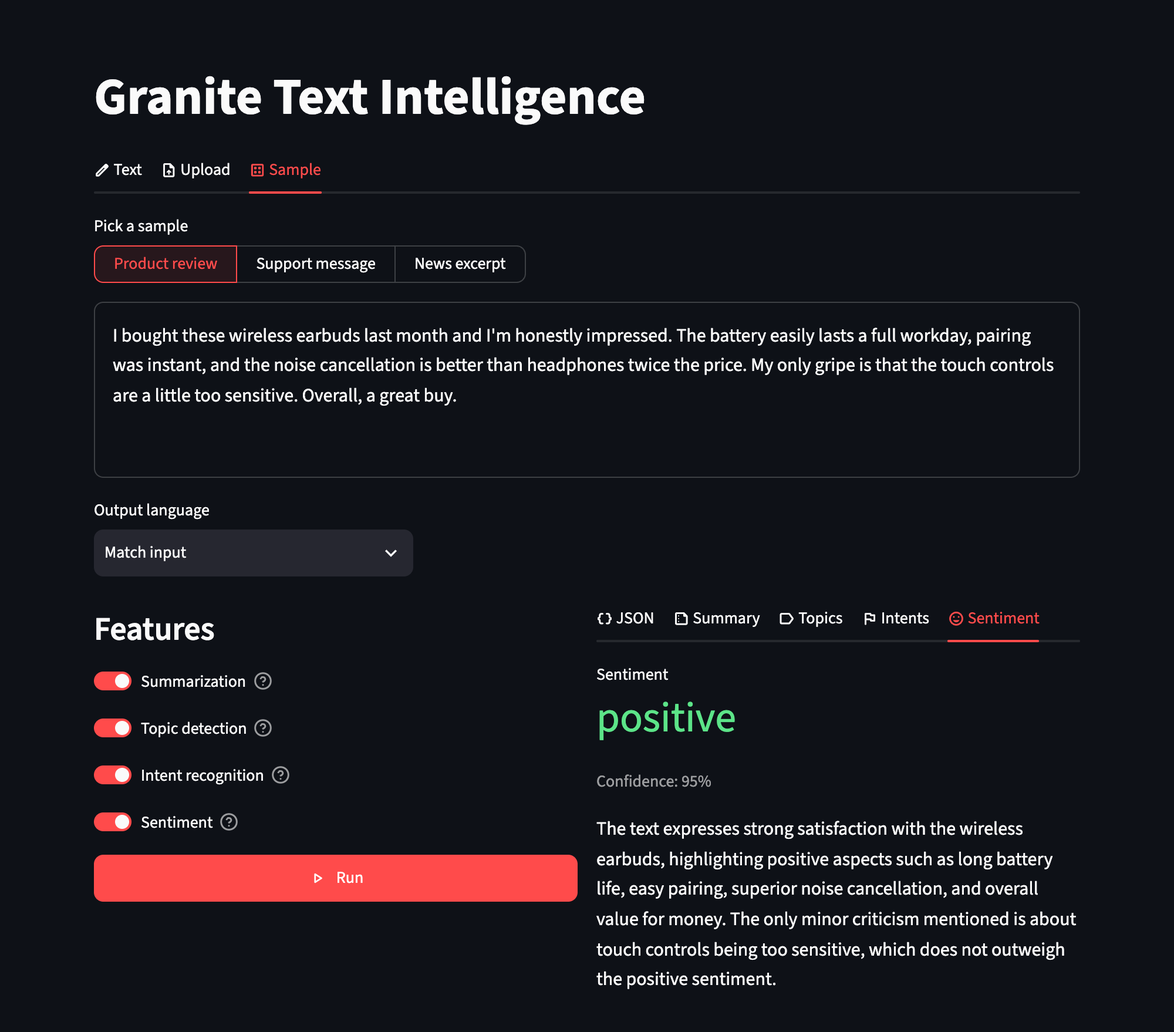
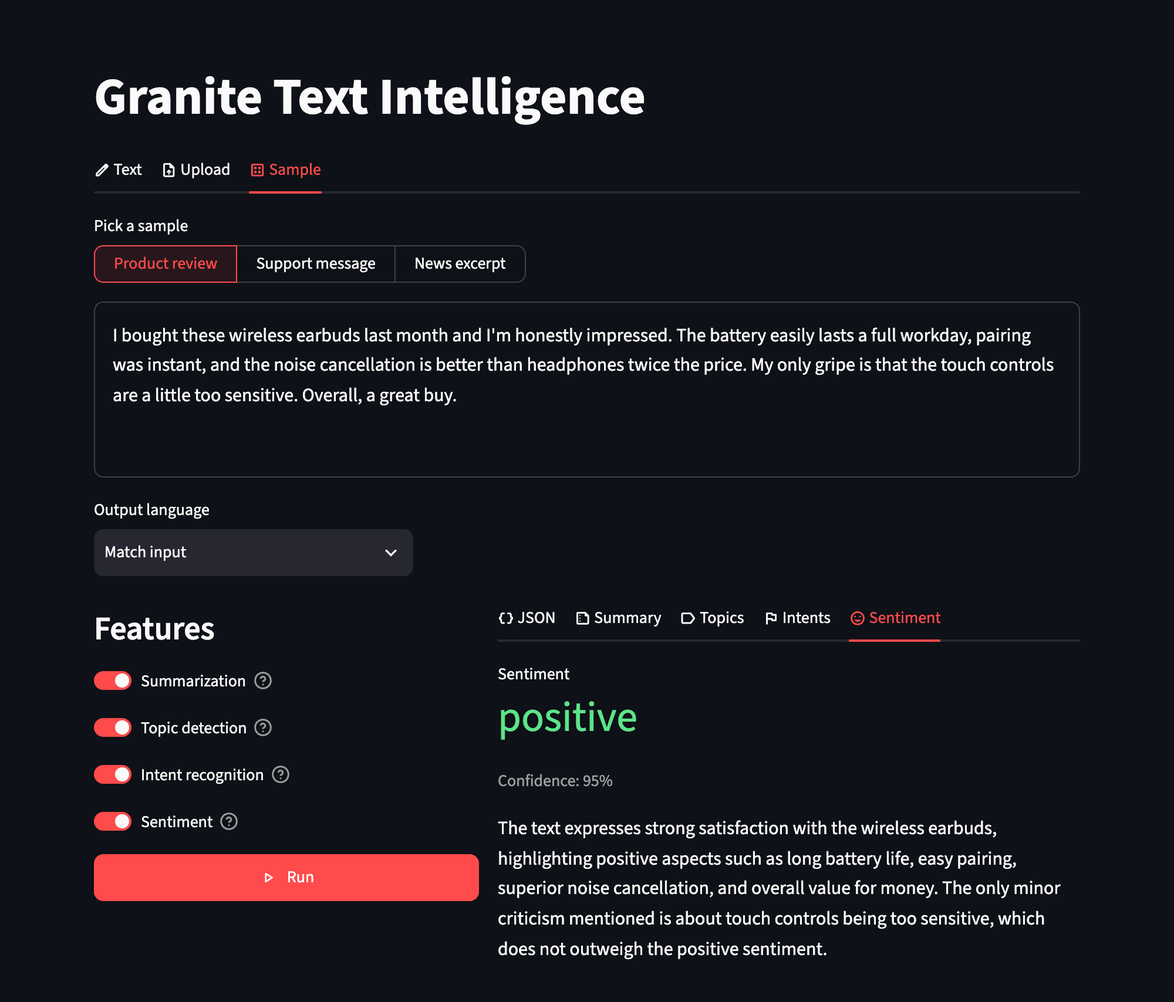
docs: correct the width figures and record the review follow-ups
The width floor was documented twice with two different numbers — ~930 in the
capture recipe and ~831 in the Architecture section it cross-references. The
831 came from modelling the results column as a fixed fraction of the
viewport; fitting it properly gives 0.5 * viewport - 88, which is why a 900 px
capture clipped and a 1000 px one did not. The 2:3 split now removes the
threshold entirely, so the capture width is an aesthetic choice rather than a
floor, and the screenshot is recaptured under the new ratio.

Also corrected: the claim that the container reordering retired the stale
"Inputs changed" note (it did not — that needed `st.empty()`), and the claim
that a disabled `st.text_area` sits in the tab order (it does not).

The Dependencies checklist gains `st.container(height=)`, `st.text(width=)`
and `st.code(wrap_lines=)`. The documented procedure for lowering the
Streamlit floor says to check "the APIs above", so an API used by the app and
missing from that list is one nobody checks. All three verified present at
1.57, so the floor itself was never wrong.

diff --git a/CLAUDE.md b/CLAUDE.md
@@ -79,7 +79,7 @@ Conventional Commits — `feat:`, `fix:`, `docs:`, `chore:`, `test:`, `refactor:
 - `mlx-lm` (pinned `>=0.31,<0.32`) — model loading and generation on Apple Silicon; mlx and transformers are transitive deps. The `<0.32` cap guards against API drift, since decoding params pass through `generate(**kwargs)` rather than typed parameters; exact reproducibility is handled by `uv.lock`.
   - **The cap binds `mlx-lm`, not `mlx`.** mlx-lm declares `mlx` with a floor but *no upper* bound (`mlx>=0.31.2`), so the compute library floats free of the guard above — and since 0.31.3 is mlx-lm's latest release, the cap is not currently binding on anything. As of 2026-08-13 the lock pairs mlx-lm 0.31.3 with mlx 0.32.0, a combination newer than anything upstream shipped together (the mlx-lm sdist predates mlx 0.32.0). That pairing is **verified by real-inference smoke test**, not by CI (re-verified 2026-08-14).
   - The test suite structurally **cannot** cover this. Every test mocks at the `mlx_lm` boundary (see Tests), which is the right call — real inference in CI would mean a 5.2 GB download per run — but it means no test executes a line of `mlx`; the only real contact in CI is the module-level `from mlx import nn`. Hence the hand-run in *Verifying a dependency upgrade*, which is not optional after a move to any of these four packages.
-- `streamlit` (pinned `>=1.57`) — web UI. **The floor is now less load-bearing than it reads.** It was argued from the IBM Carbon theme's per-mode `[theme.light]`/`[theme.dark]` blocks, which no longer ship (see Configuration); what is left needing a recent Streamlit is `width="stretch"` and the Material Symbol icons, both of which predate `1.57`. Nothing tests the lower bound — CI installs the `uv.lock` pin — so the floor is kept rather than lowered on the argument that an unverified bound is safer than a guessed one, not because `1.57` is known to be required. Anyone lowering it should check the APIs above against the target version by hand. Exact version pinned by `uv.lock`.
+- `streamlit` (pinned `>=1.57`) — web UI. **The floor is now less load-bearing than it reads.** It was argued from the IBM Carbon theme's per-mode `[theme.light]`/`[theme.dark]` blocks, which no longer ship (see Configuration); what is left needing a recent Streamlit is `width="stretch"`, the Material Symbol icons, `st.container(height=…)`, `st.text(…, width=…)` and `st.code(…, language=None, wrap_lines=True)` — all of which predate `1.57` (verified). Keep this list in step with the app: the procedure below says to check "the APIs above", so an API added to `streamlit_app.py` and not added here is one nobody checks. Nothing tests the lower bound — CI installs the `uv.lock` pin — so the floor is kept rather than lowered on the argument that an unverified bound is safer than a guessed one, not because `1.57` is known to be required. Anyone lowering it should check the APIs above against the target version by hand. Exact version pinned by `uv.lock`.
 - `python-dotenv` (pinned `>=1.2.2`) — loads `HF_TOKEN` (and other env vars) from `.env` for local development
 
 ## Configuration
@@ -94,7 +94,7 @@ To reproduce it — or to add a light counterpart back — drive a headless Chro
 
 Four details are load-bearing, and each one cost a failed run:
 
-- **The width is a floor, not a preference.** Below ~930 CSS px the result-tab strip clips (see Architecture); at the old 792 it clips even under `layout="wide"`.
+- **The width is now an aesthetic choice, not a floor.** It was a floor while the columns were an even split — the result-tab strip clipped below ~930 CSS px, which the old 792 recipe did not clear even under `layout="wide"`. The 2:3 split removed that threshold (see Architecture), so 1000 is kept for the framing it gives rather than because anything breaks below it.
 - **The height cannot come from `document.scrollHeight`.** Streamlit scrolls an inner container, so the document stays exactly viewport-tall and reports back whatever height you asked for — a full-page capture silently returns just the visible window, and a too-tall viewport returns acres of dead space. Measure the lowest `getBoundingClientRect().bottom` among `[data-testid="stMainBlockContainer"]`'s children, then re-apply the override at that height.
 - **Do not poll `document.body.innerText` to detect that the run finished.** `innerText` omits subtrees that are not rendered, and every result tab except the active one is hidden — so waiting for the sentiment caption while `JSON` is the active tab waits forever, on a run that has already completed. Poll for elements instead (`[data-testid="stMetricValue"]`), which `querySelectorAll` finds regardless of visibility.
 - **Match click targets on the *end* of `innerText`.** The Material Symbol ligature renders as a text prefix, so the Run button reads `"play_arrow Run"`, not `"Run"`.
@@ -165,7 +165,9 @@ The custom theme that shipped until 2026-08-14 (IBM Plex Sans/Mono over IBM Blue
 
 `streamlit_app.py` — single-file app. Single-shot flow: one input → run the selected features → show results. Streamlit's built-in light/dark theme (no `.streamlit/config.toml`; see Configuration), native components, Material Symbol icons, no sidebar, `layout="wide"`.
 
-**`layout="wide"` is load-bearing, not cosmetic.** The results panel is half the page and carries five icon-prefixed tabs whose labels need **377 CSS px** together (measured in the browser). The results column is ~45% of the viewport, so the strip fits only from a viewport of roughly **831 CSS px** up; below that `st.tabs` silently degrades into a horizontally scrolling strip with a chevron, hiding whichever label is furthest from the active one — visible in the screenshot that shipped until 2026-08-15, where the `JSON` tab was scrolled out of frame. Centered layout could not reach that width. Removing an icon would also fix it and is the wrong fix: `TestUIPolish` pins `":material/data_object: JSON"` and the `icon` + `tab_label` composition for every feature.
+**`layout="wide"` and the 2:3 column split are load-bearing, not cosmetic.** The results panel carries five icon-prefixed tabs whose labels need **378 CSS px** together (measured in the browser). When the panel was half the page, the space available for that strip was a function of window width — the results column measured `0.5 × viewport − 88` CSS px, so the strip clipped below a viewport of roughly **930 px**, and `st.tabs` degraded *silently* into a horizontally scrolling strip with a chevron that hides whichever label is furthest from the active one. That is visible in the screenshot that shipped until 2026-08-15, where the `JSON` tab was scrolled out of frame.
+
+`layout="wide"` alone only moved that threshold — a browser window at half a 1440 px display is 720 px and still clipped. Giving the results **3/5** (`st.columns([2, 3])`) removes it structurally: measured across 600–1200 px viewports the strip never clips, because even at 700 px the column is 393 px against the 378 px needed (below ~640 px Streamlit stacks the columns, which hands the strip the full width). The features column holds four toggles and one button and does not need half the page. Removing an icon would also have fixed it and is the wrong fix: `TestUIPolish` pins `":material/data_object: JSON"` and the `icon` + `tab_label` composition for every feature.
 
 ### Model
 
@@ -203,11 +205,11 @@ The four features: Summarization (prose, 256 tokens), Topic detection and Intent
 
 ### Layout
 
-A full-width input section sits on top; below it the page splits into two columns (`st.columns(2)`).
+A full-width input section sits on top; below it the page splits into two columns (`st.columns([2, 3])` — the ratio is load-bearing, see above).
 
-- **Input** — `st.tabs(["Text", "Upload", "Sample"])` (each label prefixed with a Material Symbol icon); the active input is resolved by precedence **Text > Upload > Sample** (first non-empty). The uploader accepts `.txt` and `.md` only (`type=["txt", "md"]`) and decodes with `errors="replace"`, so undecodable bytes become U+FFFD rather than raising. The Upload and Sample tabs each preview their text in a fixed-height `st.container(height=150)` holding `st.text(…, width="stretch")` — **not** a `disabled=True` `st.text_area`, which is what shipped until 2026-08-15: Streamlit renders a disabled textarea at `fadedText40` (forced through `-webkit-text-fill-color`, so it cannot be overridden) and keeps it in the tab order, which reads as a broken input rather than a read-only preview. `st.text` is proportional, not monospace, and its width cannot exceed its parent, so long prose wraps inside the scrolling container. Directly beneath the input (full-width, above the column split) is the **Output language** selectbox (`LANGUAGES`, default "Match input"), width-constrained to ~1/3 via `st.columns([1, 2])` — it's a global setting, so it sits with the input rather than in the per-feature column.
+- **Input** — `st.tabs(["Text", "Upload", "Sample"])` (each label prefixed with a Material Symbol icon); the active input is resolved by precedence **Text > Upload > Sample** (first non-empty). The uploader accepts `.txt` and `.md` only (`type=["txt", "md"]`) and decodes with `errors="replace"`, so undecodable bytes become U+FFFD rather than raising. The Upload and Sample tabs each preview their text through the shared `_preview` helper — **not** a `disabled=True` `st.text_area`, which is what shipped until 2026-08-15: Streamlit renders a disabled textarea at `fadedText40` (forced through `-webkit-text-fill-color`, so it cannot be overridden), which reads as a broken input rather than a read-only preview. It is **not** a tab-order problem — a `disabled` control, unlike `readOnly`, is removed from sequential focus navigation, and an earlier version of this note claimed the opposite. The real trade-off is the accessible name: the textarea carried a collapsed label and a bare container has none, and Streamlit exposes no label on a container. Directly beneath the input (full-width, above the column split) is the **Output language** selectbox (`LANGUAGES`, default "Match input"), width-constrained to ~1/3 via `st.columns([1, 2])` — it's a global setting, so it sits with the input rather than in the per-feature column.
 - **Left column** — a "Features" subheader over the four `st.toggle` widgets (default on; each description in its `help=` tooltip), with the full-width **Run** button beneath (a `:material/play_arrow:` icon; `width="stretch"`; disabled until there is input and at least one feature is on).
-- **Right column** — two reserved `st.container()` slots (run status, then the notices) followed by the fixed result tabs, **all emitted before the Run handler executes** (the ordering is load-bearing — see Performance): `JSON` plus one tab per feature, derived from `FEATURES` (each feature label composed as `icon` + `tab_label`; the `JSON` tab carries an icon too). JSON shows the combined output; each feature tab renders its result (guarded by try/except), a "not enabled for this run" note if it was off, or a run prompt before the first run. An "Inputs changed since this run — click Run to refresh." note appears when the live input/toggles/language differ from the run. Rendered from `st.session_state.results`.
+- **Right column** — a reserved `st.container()` (run status) and a reserved `st.empty()` (the notices; the *empty* is load-bearing, see Performance) followed by the fixed result tabs, **all emitted before the Run handler executes**: `JSON` plus one tab per feature, derived from `FEATURES` (each feature label composed as `icon` + `tab_label`; the `JSON` tab carries an icon too). JSON shows the combined output; each feature tab renders its result (guarded by try/except), a "not enabled for this run" note if it was off, or a run prompt before the first run. An "Inputs changed since this run — click Run to refresh." note appears when the live input/toggles/language differ from the run. Rendered from `st.session_state.results`.
 
 Interactive widgets carry stable `key=`s so `AppTest` can address them by key rather than positional index: `paste` (text area), `upload` (file uploader), `sample_select` (sample segmented control), `feature_<key>` (per-feature toggles, e.g. `feature_summary`), `language` (output-language selectbox), and `run` (the Run button).
 
@@ -221,19 +223,30 @@ Interactive widgets carry stable `key=`s so `AppTest` can address them by key ra
 - `_effective_max_tokens(feature, language) -> int` — the feature's `max_tokens`, doubled for every non-English language (see `_LOCALIZED_TOKEN_MULTIPLIER`); the base budget for English.
 - `run_feature(feature, text, model, tokenizer, language=LANGUAGE_AUTO) -> dict` — builds `[{"role": "system", …}, {"role": "user", …}]` (system prompt verbatim; the user turn carries the `language_directive`), renders it with `tokenizer.apply_chat_template(messages, tokenize=False, add_generation_prompt=True)`, and passes that string to `mlx_lm.generate` with `_effective_max_tokens(feature, language)`, `make_sampler(temp=TEMP)`, and — **for prose only** — a `make_logits_processors` repetition penalty (`logits_processors=None` for JSON). No "thinking" mode. Returns `{"raw": str, "parsed": dict | None}` (`parsed` only for JSON features).
 - `_run_signature(input_text, enabled, language) -> tuple` — the run's identity `(input_text, toggle states, language)`; built on Run and recomputed live so the results panel can flag stale results. Single source so build/compare sides can't diverge.
-- `_topic_rows(topics) -> list[dict]` — normalizes the model's `topics` value into rows `st.dataframe` can render. The previous non-empty-list check was not enough, and both survivors were reproduced against the installed Streamlit: a list of **bare label strings** (`["politics", "economy"]`) converts to a single column literally headed `value` — `column_config` names nothing in it, so the labels lose their header and the confidence bar vanishes — while a list *mixing* objects with scalars raises `StreamlitAPIException`, which `render_result`'s caller degrades to "Could not render this result." plus a traceback. Bare strings are promoted to `{"label": …}`; any other non-mapping entry is dropped, which is not data loss for the user because the JSON tab always shows the raw response. A promoted row has no `confidence`, which renders as an empty bar rather than raising.
+- `_preview(text) -> None` — renders read-only source text in a fixed-height `st.container(height=150)` holding `st.text(…, width="stretch")`; `st.text` is proportional, not monospace, and cannot exceed its parent's width, so long prose wraps inside the scrolling container. Shared by the Upload and Sample tabs so the rationale (above) lives in one place rather than as a comment pointing at another comment.
+- `_topic_rows(topics) -> list[dict]` — normalizes the model's `topics` value into rows `st.dataframe` can render. A non-empty-list check was not enough; all three survivors were reproduced against the installed Streamlit. A list of **bare label strings** (`["politics", "economy"]`) converts to a single column literally headed `value` — `column_config` names nothing in it, so the labels lose their header and the confidence bar vanishes. A list *mixing* objects with scalars raises `StreamlitAPIException`, which `render_result`'s caller degrades to "Could not render this result." plus a traceback. And a list of objects carrying **no usable `label`** (`[{}]`, or `[{"confidence": 0.9}]` from a truncated object) renders a table of blank rows instead of falling through to "No topics found." Bare strings are promoted to `{"label": …}`, and an entry survives only if it has something to show in the Topic column — **both shapes are held to the same test**, which is what lets the caller's `if rows:` mean "there is a topic to render". Dropping is not data loss for the user because the JSON tab always shows the raw response. A promoted row has no `confidence`, which renders as an empty bar rather than raising.
 - `render_result(key, result) -> None` — renders one feature's result with native components: prose for summary; a dataframe for topics (confidence as a `ProgressColumn`); `st.metric` for intent/sentiment, each with an optional rationale and a percent-formatted confidence (`_render_confidence`). The sentiment value is color-coded by enum (`_SENTIMENT_COLOR` → `:color[…]` markdown, which resolves Streamlit's **built-in color names** against the active theme — positive→green, negative→red, neutral→gray, mixed→orange; an unrecognized name is not an error, it renders as literal punctuation, which is what `TestThemeConfig` pins), matched **case-insensitively** (`.lower()`, so `"Positive"` still colors); an out-of-enum label renders uncolored. Untrusted model output is guarded — `topics` is normalized by `_topic_rows` (an empty result falls back to a message), `st.metric` values are coerced to strings, and JSON parse failures show the raw response via `st.code(raw, language=None, wrap_lines=True)`: the default `language="python"` would syntax-highlight model prose as code, and claiming `"json"` would be a guess on the one branch that runs *because* the output did not parse.
 
 ### Performance
 
 The load-bearing choices are stated where they are defined — lazy `@st.cache_resource` model load (Model), the `MAX_INPUT_TOKENS` truncation budget and greedy decoding (Constants). Two decisions have no other home:
 
-- **The results panel's chrome is emitted before the run, not after.** The two `st.container()` slots and `st.tabs` are created first; the `if run:` block then fills the status slot and the notices fill theirs. Streamlit emits a delta per `st.*` call and leaves the *previous* run's elements on screen — faded to ~33% once a run outruns a short delay — until the new run re-emits them. Building the tabs after inference therefore left the entire panel stale for the length of a 5.2 GB model load plus up to four generations, including the then-actively-misleading "Inputs changed since this run" note. **The spinners do not repaint it**: `st.spinner` enqueues on a *transient* cursor (`get_transient_cursor` advances `_transient_index`, never `_index`), so it never touches the real delta path. `st.container()` is the correct reservation and **`slot.skeleton()` is not**, despite being what Streamlit's own performance guidance reaches for: `SkeletonPlaceholder.__init__` calls `_enqueue`, which locks and advances the cursor, so the skeleton permanently consumes child index 0 — the tabs would then sit at index 1 on Run reruns and index 0 on every other one, remounting the tab block and resetting the selected tab. No test pins element order (`AppTest` assertions are `any(...)` over each collection, a set comparison for `at.tabs`, and `at.metric[0]` is unambiguous), so this is unguarded by construction.
+- **The results panel's chrome is emitted before the run, not after** — a status `st.container()`, a notices `st.empty()`, then `st.tabs`; the `if run:` block fills them afterwards. Streamlit emits a delta per `st.*` call and leaves the *previous* run's elements on screen — faded to ~33% once a run outruns a short delay — until the new run re-emits them, and it only drops what was not re-emitted in `clearStaleNodes` at **end of run**. Two things follow, and only the second is what most descriptions of this pattern claim:
+  - **The tab block now sits at a fixed child index.** It used to follow the two *conditional* notices, so its delta path shifted between 0, 1 and 2 as they appeared and disappeared; landing on a path previously held by a different node remounts the block and silently resets the user's selected tab. This is the bug the ordering actually fixes, and it is unrelated to how long inference takes.
+  - **The tab bar paints immediately** instead of waiting out a 5.2 GB model load plus up to four generations. The tab *bodies* cannot — the results do not exist yet — so the previous run's answers are still what is on screen during a run. That is inherent, not a defect.
+  - **The notices slot must be `st.empty()`, not a container.** Re-emitting an empty *container* preserves its existing children (they are only dropped at end of run), so a plain container would keep showing the previous run's "Inputs changed since this run" note, faded but readable, throughout a run it no longer describes. `st.empty()` clears at the top of the rerun; `notice_slot.container()` is what lets the one slot hold both notices. An earlier version of this section claimed the container reordering alone retired that note — it does not.
+  - **The spinners repaint none of it**: `st.spinner` enqueues on a *transient* cursor (`get_transient_cursor` advances `_transient_index`, never `_index`), so it never touches the real delta path.
+  - **`slot.skeleton()` is the wrong reservation**, despite being what Streamlit's own performance guidance reaches for: `SkeletonPlaceholder.__init__` calls `_enqueue`, which locks and advances the cursor, so the skeleton permanently consumes child index 0 — reintroducing exactly the shifting-index remount above.
+  - Cost: an empty `st.container()` renders no DOM node at all and the `st.empty()` renders at height 0, so the reservation costs **one 16 px flex gap** above the tab strip (measured), not the stacked dead space it looks like it should.
+
+  `TestResultsPanelStructure` pins the order by asserting the results column's children are `[flex_container, empty, tab_container]` in `AppTest`'s block tree — the rest of the UI suite asserts with `any(...)` over each collection and a set comparison for `at.tabs`, so nothing else here can see order.
 - No `@st.fragment`: the one expensive op (inference) is already gated behind Run and `@st.cache_resource`-cached, so isolating reruns would add complexity for no gain — and a results-panel fragment would not even see the input/toggle/language widgets it depends on (they live outside it), breaking the cross-widget staleness note. `st.session_state.results` is initialized with `st.session_state.setdefault`.
 
 ### Error Handling
 
 Unexpected exceptions during a run — and during per-feature rendering — are shown with `st.exception()`. JSON parse failures degrade gracefully to the raw response, and `render_result` guards/coerces untrusted model output before passing it to `st.metric` / `st.dataframe`.
+
+**A failed run clears `st.session_state.results`.** The run guard sets it to `None` before showing the traceback, because the tabs are already painted by then (see Performance): leaving the previous run's answers in place would show them *underneath* the traceback with nothing marking them stale, and the "Inputs changed since this run" note does not cover it — that note reads as "you edited something", not "this run failed". The cost is losing a good previous result to a transient failure, which is the cheaper of the two, since re-running is one click and a wrong-but-confident panel is not recoverable by the reader.
 
 Both of those `except Exception` handlers carry an inline `# noqa: BLE001` naming their role (top-level run guard / untrusted model output shape). `BLE001` ("do not catch blind exception") entered ruff's **default** rule set in 0.16, and it is right about blind catches in general — but these two are deliberate UI boundaries: a Streamlit script has no frame above it to catch anything, so an escaped exception blanks the page instead of showing the user what broke. The suppression is per-line rather than a project-wide `ignore` in `pyproject.toml` **on purpose** — the rule stays live, so a third, *unintentional* blind catch added later still fails the lint gate.
 
@@ -251,7 +264,7 @@ The suites that assert by *executing* a shell script (`TestReleaseWorkflow`, `Te
 - `TestLanguageDirective` — `English` → empty, prose targets the language, JSON localizes values but keeps keys/enums English, and `Match input` uses the relative phrase. Further cases pin the A/B findings the design decision says not to re-litigate: each JSON feature names its **own** field (topics→`label`, intents/sentiment→`rationale`) and that name stays **unquoted**; the localize clause comes **last** (asserted with `find()`, not `rindex()`, so a dropped clause fails the assertion instead of raising `ValueError`); the prose branch suppresses language commentary and makes no claim about English at all; and the JSON branch mentions English only positively — six negative phrasings are rejected, since under "Match input" the target may itself be English. The clause-order and positive-English checks are parametrized over every JSON feature × `Match input`/Japanese/German
 - `TestResolveMaxInputTokens` — env-var override, default when unset, non-integer/non-positive fallback, clamp to `MODEL_MAX_TOKENS`, and the pinned default/ceiling values
 - `TestEffectiveMaxTokens` — base budget for English; doubled for **every** other entry in `LANGUAGES` (Latin-script included, and "Match input" as `LANGUAGES[0]`). Parametrized over language × feature, so all four budgets are checked against all 12 targets
-- `TestRenderResult` — `st.metric` string coercion for intent/sentiment, the non-list topics guard, `_topic_rows` normalization (bare strings promoted to `{"label": …}`, non-mappings dropped, and a **mixed** list still reaching `st.dataframe` rather than collapsing to "No topics found." — the fix must not discard labels the model did return), percent-formatted confidence, and per-enum sentiment coloring (`positive→green` … `mixed→orange`, out-of-enum → uncolored) (mocks `streamlit_app.st`)
+- `TestRenderResult` — `st.metric` string coercion for intent/sentiment, the non-list topics guard, `_topic_rows` normalization (bare strings promoted to `{"label": …}`; non-mappings and **label-less objects** — `[{}]`, `[{"confidence": 0.9}]`, `[{"label": "  "}]` — dropped so the caller's `if rows:` cannot render a table of blank rows; and a **mixed** list still reaching `st.dataframe` rather than collapsing to "No topics found." — the fix must not discard labels the model did return), percent-formatted confidence, and per-enum sentiment coloring (`positive→green` … `mixed→orange`, out-of-enum → uncolored) (mocks `streamlit_app.st`)
 - `TestThemeConfig` — that no `[theme]` section ships (a lone one drops the light/dark toggle silently; see Configuration), asserted against the *section* so a config.toml carrying only non-theme options still passes, and that every hue `_SENTIMENT_COLOR` emits is a name Streamlit resolves — cross-checked against `streamlit.elements.lib.color_util.BUILTIN_COLOR_NAMES` rather than a hardcoded list, so an upstream rename fails loudly on import instead of silently narrowing what the test accepts. An unrecognized name isn't an error: `:teal[positive]` ships to the user as literal punctuation
 - `TestCIWorkflow` — `.github/workflows/ci.yml` parses, pins `runs-on` to a member of the `APPLE_SILICON_RUNNERS` allow-list (see Configuration for why an allow-list and not a glob), delegates to `scripts/gate.sh` under `uv sync --locked` (the four gates are asserted once, in `TestHooksConfig`, rather than re-spelled here where they could drift), and triggers on push to `main` and on PRs — the CI analogue of `TestThemeConfig`'s silent-degradation guard (a dropped step or swapped runner would still show green on whatever CI still ran). Parses with `pyyaml` (a dev dep); accounts for YAML 1.1 reading the bare `on:` key as boolean `True`
 - `TestReleaseWorkflow` — `.github/workflows/ci.yml`'s `release` job and `scripts/release.sh`, the silent-degradation guard with the least forgiving failure mode: automation that stops firing is indistinguishable from a stretch with no version bumps, and automation that fires from the wrong place has already published a tag by the time anyone looks. Statically: the script is executable and delegated to (not inlined), `needs: check`, the push-to-main `if`, `contents: write` on that job **only** (the workflow default stays `read`, so the job running a fork's code can't tag), `cancel-in-progress: false`, `GH_TOKEN` + `GH_REPO` in `env:`, and **no `${{ }}` inside any `run:`** — checked across *every* job, since `release` is already confined to pushes to main while `check` is the one running a fork's PR code with `github.head_ref` in scope. The rest is asserted **behaviorally** — `release.sh` symlinked into a `tmp_path` git repo with `gh` and `uv` stubbed to logging dispatchers, then executed — because the script writes `--draft` twice (once to create, once as `--draft=false` to publish), so `"--draft" in source` passes whether or not the publish step exists, which is exactly the mutation that leaves every release stuck as an invisible draft. Logging argv is what makes `create < publish` assertable at all, and what pins `uv version --short` — the stub returns the same string with or without the flag, but production does not. The log also covers the exact-match ref probe, `--target`, `--generate-notes` and the `v<version>` title; separate cases cover the already-tagged no-op, draft adoption instead of duplication, and the refusals (inconclusive probe, unlistable releases, unreadable/implausible version, unresolvable commit, off-main hand-run, missing `gh` or `uv`). Two assertions are deliberately narrower than they look: the failed-publish case asserts `"publish or delete the draft"` rather than `"draft"` (which the *create*-failure message also contains) and the missing-tool case asserts `"<tool> is required"` rather than the bare name (which `sh`'s own "not found" supplies) — both were caught surviving mutation as the looser form. All 18 plausible mutations were verified to turn the suite red
@@ -261,4 +274,5 @@ The suites that assert by *executing* a shell script (`TestReleaseWorkflow`, `Te
 
 - `TestInitialRender` — no model needed: Run disabled with no input, the four toggles default-on with correct labels, the Output language selectbox defaulting to "Match input", the sample picker rendering as a `segmented_control` (no `—` sentinel), and the pre-run prompt / `results is None`
 - `TestUIPolish` — no model needed: the input tabs and Run button carry their Material Symbol icons, and each result tab's label is composed as `icon` + `tab_label` from `FEATURES`
+- `TestResultsPanelStructure` — no model needed: the results column's children are `[flex_container, empty, tab_container]`, read off `AppTest`'s block tree (`at.main.children`). This is the only assertion in either suite that can see element *order*, and it guards two invariants that both fail silently — the tab block's delta path staying fixed (so the selected tab survives a notice appearing), and the notices slot being an `st.empty()` rather than a container (so a stale note clears). Moving the run block back above the tabs turns it red; see Performance
 - `TestRunInteraction` — Run enables once text is entered (or a built-in sample is picked); the mocked Run path populates `session_state.results`, renders the Sentiment `st.metric` and percent confidence, shows the "not enabled for this run" note for toggled-off features, flags "inputs changed" after a post-run edit (input *or* output-language change), and warns on truncated input
